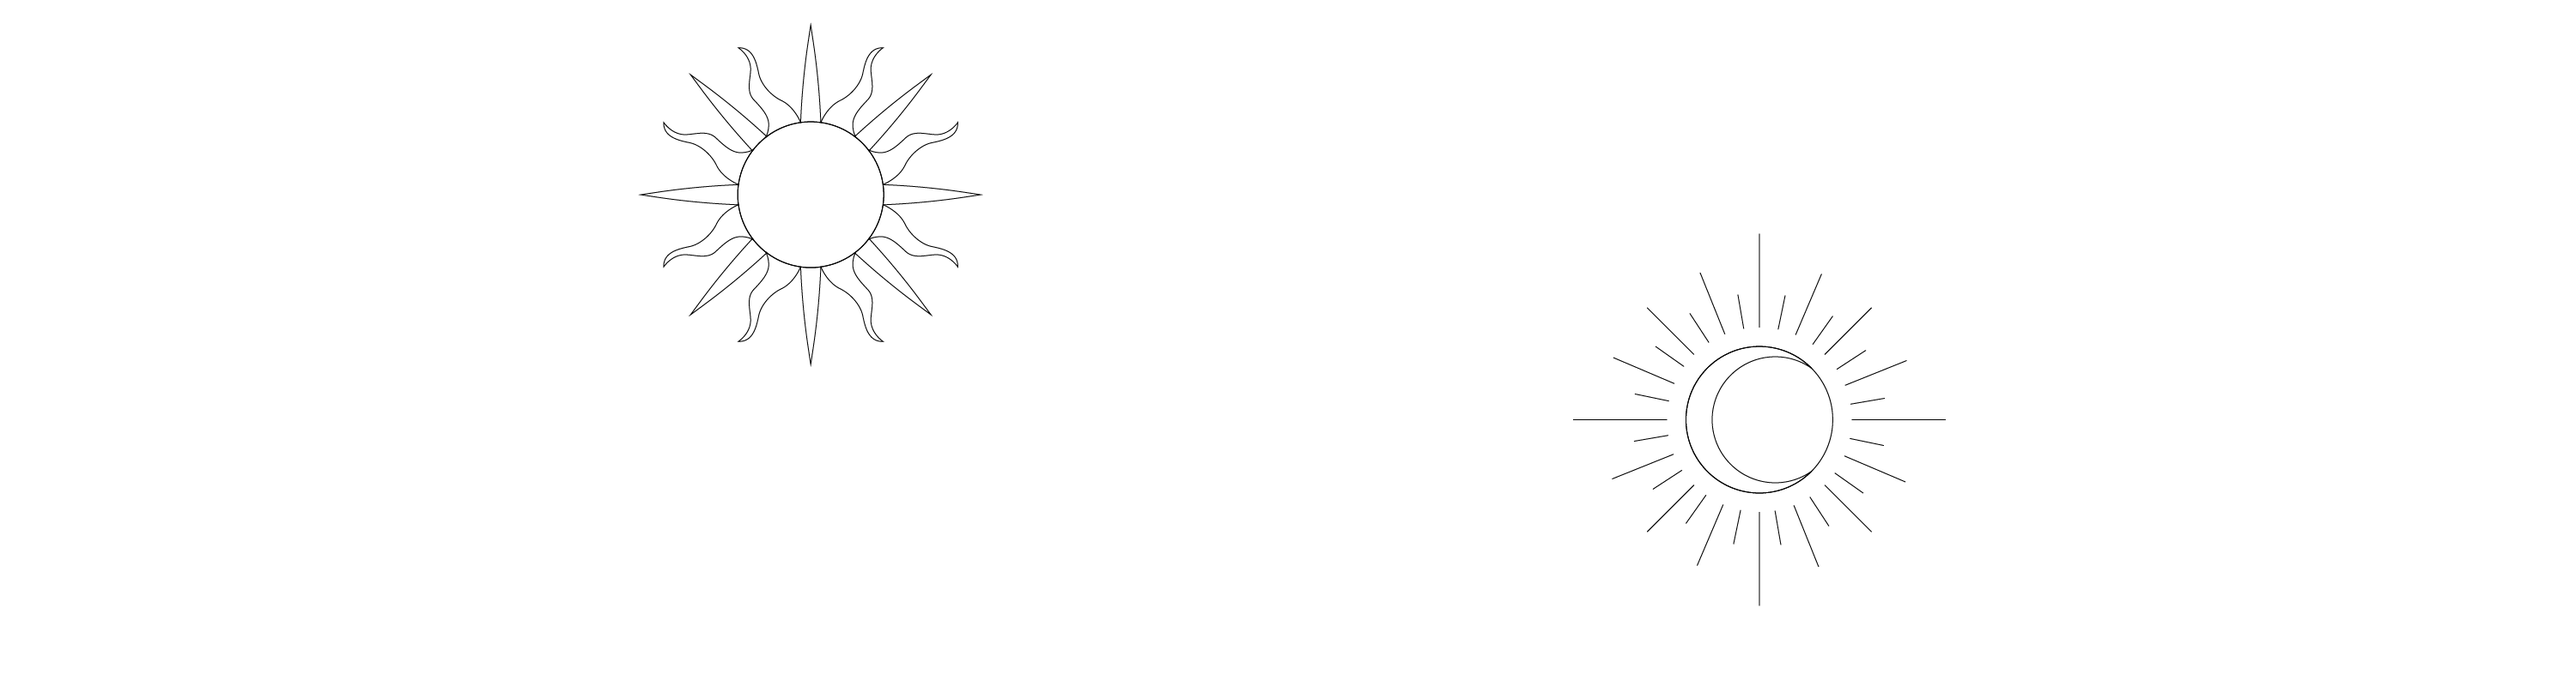
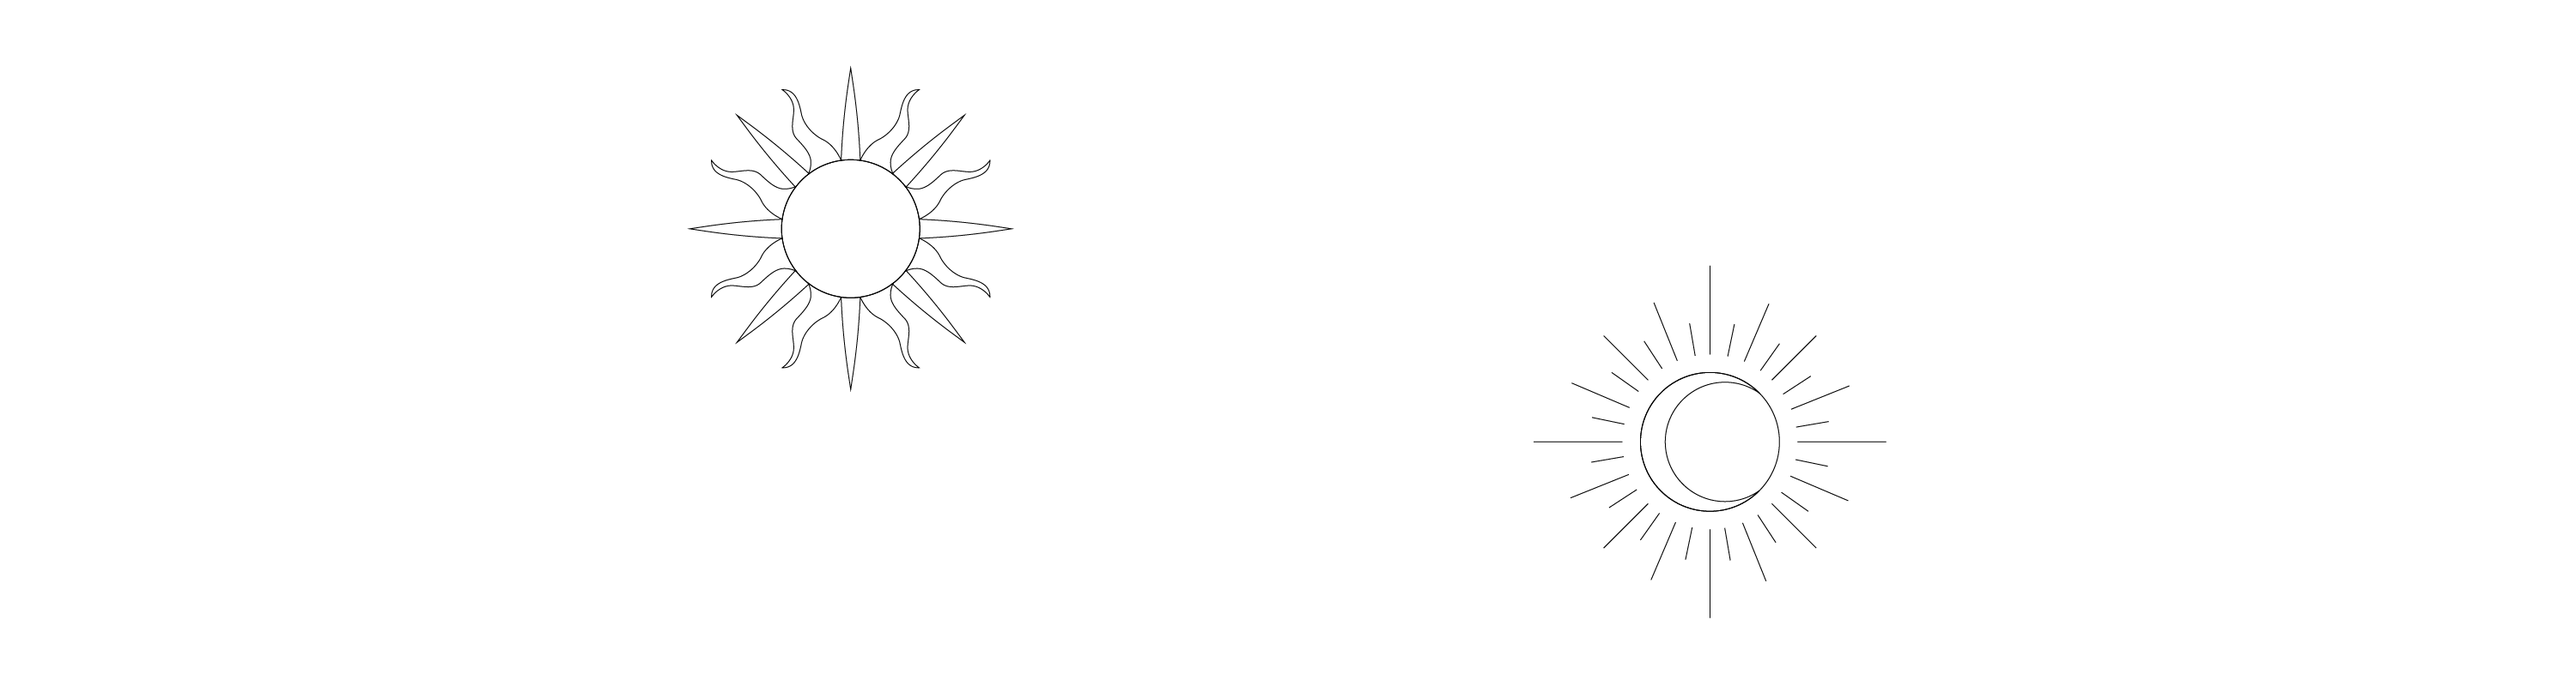
Update css and image assets

diff --git a/scss/style.scss b/scss/style.scss
@@ -6,7 +6,7 @@ $breakpoint-laptop: 1024px;
 $breakpoint-desktop: 1200px;
 $old-main-bg: #FEDCC8;
 $old-cover-bg: #2D112B;
-$new-main-bg: #FFFFF;
+$new-main-bg: #FFFFFF;
 $new-cover-bg: #FFFAAA;
 
 *{
@@ -41,7 +41,9 @@ body{
   img{
     display: block;
     position: absolute;
+    top: 0;
     bottom: 0;
+    margin: auto;
   }
 }
 
@@ -86,18 +88,20 @@ $parallax__layers: 2;
 }
 
 @media (max-width: $breakpoint-desktop) {
+    #title {
+        background: url(../assets/images/title-md.png) no-repeat;
+    }
+
     #sun-moon {
         background: url(../assets/images/sun-moon-md.png) no-repeat;
     }
 }
 
-@media (max-width: $breakpoint-laptop) {
+@media (max-width: $breakpoint-tablet) {
     #title {
         background: url(../assets/images/title-sm.png) no-repeat;
     }
-}
 
-@media (max-width: $breakpoint-tablet) {
     #sun-moon {
         background: url(../assets/images/sun-moon-sm.png) no-repeat;
     }

diff --git a/index.html b/index.html
@@ -2,7 +2,7 @@
 <html lang="en">
 <head>
     <title>A Sonny Day For Abbie</title>
-    <link rel="stylesheet" href="/css/style.css">
+    <link rel="stylesheet" href="./css/style.css">
 </head>
 <body>
 <div class="parallax">
